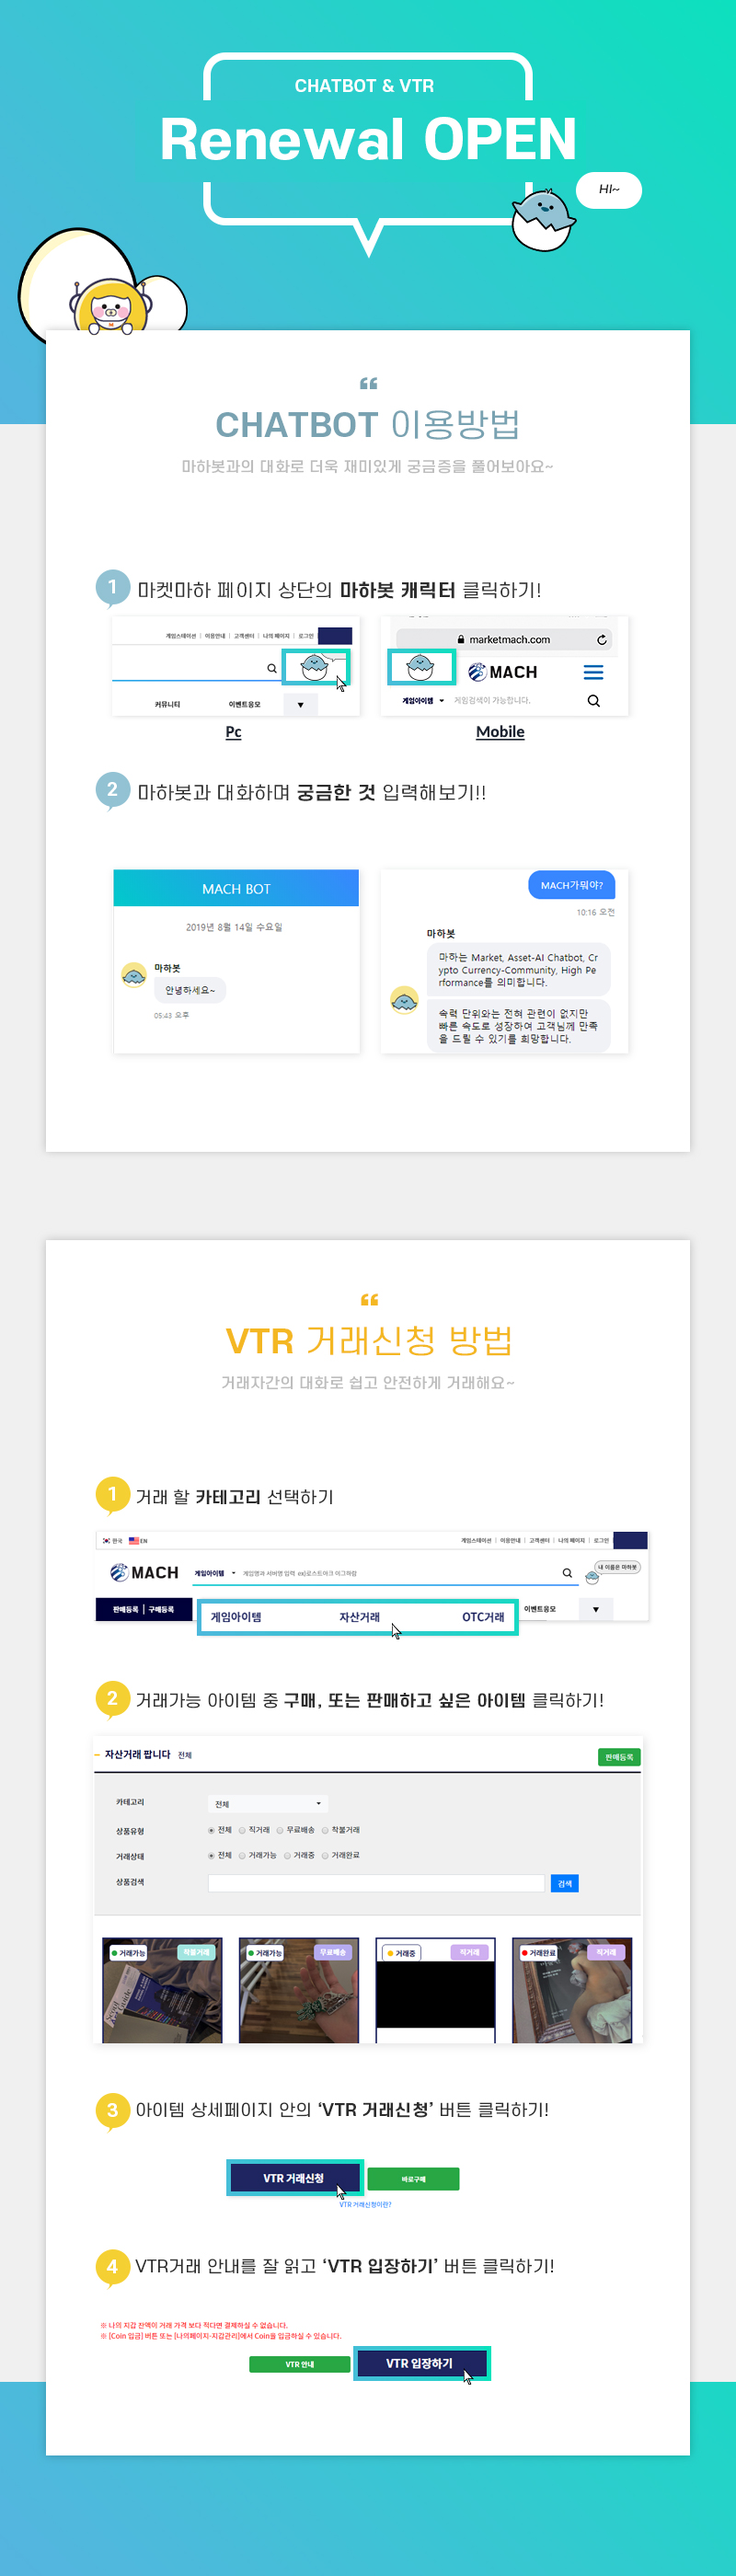
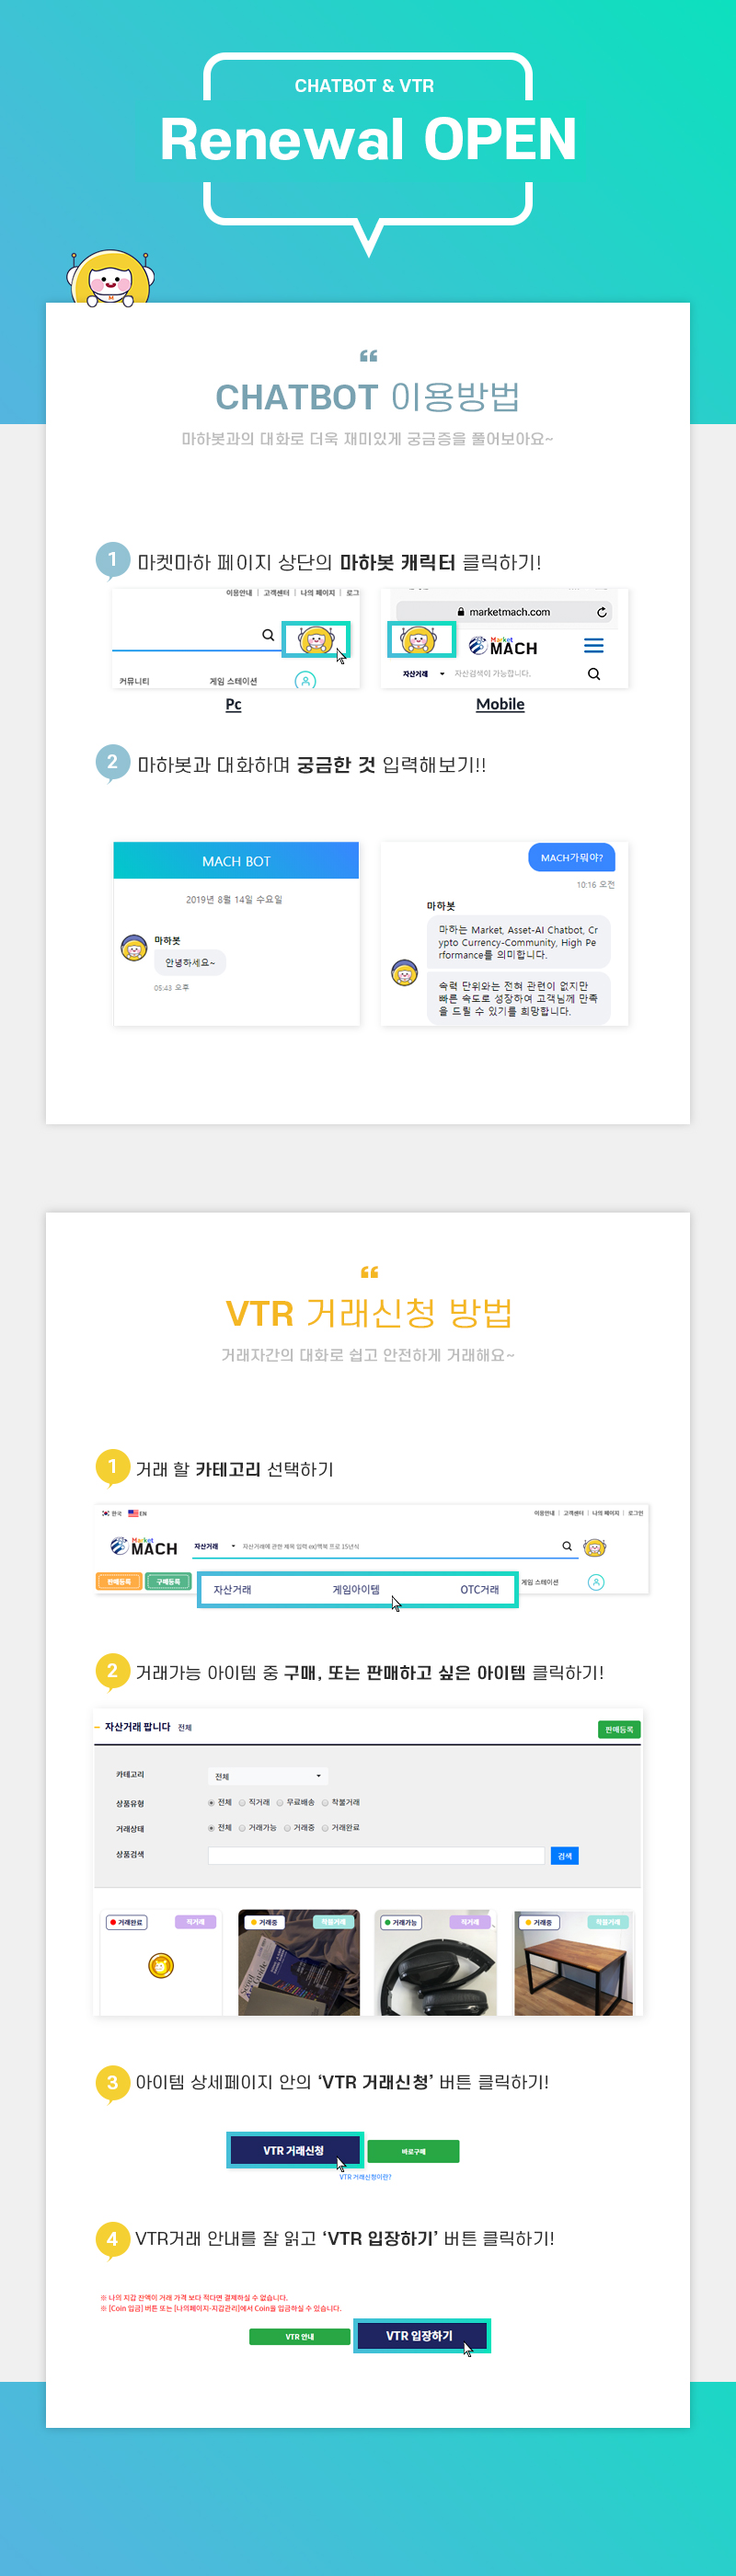
[이용안내] 이미지 교체, 영문은 챗봇 페이지 추가

diff --git a/views/v2_en/howto/vtr_chatbot.html b/views/v2_en/howto/vtr_chatbot.html
@@ -18,13 +18,13 @@
             <section class="howto_sec">
                 <div class="tab_menu">
                     <ul class="cf nth2">
-                        <li class="on"><a href="/howto/trade/vtr"><h1>How to Use</h1></a></li>
-                        <li><a href="/howto/vtr_chatbot">VTR & Chatbot</a></li>
+                        <li><a href="/howto/trade/vtr">How to Use</a></li>
+                        <li class="on"><a href="/howto/vtr_chatbot"><h1>VTR & Chatbot</h1></a></li>
                     </ul>
                 </div>
                 
                 <div class="tac">
-                    <img style="margin-top:50px;" src="/static/img/en/en_how_to_marketmach.jpg" alt="">
+                    <img style="margin-top:50px;" src="/static/img/en/en_how_to_vtr_chatbot.jpg" alt="">
                 </div>
             </section>            
         </div>
